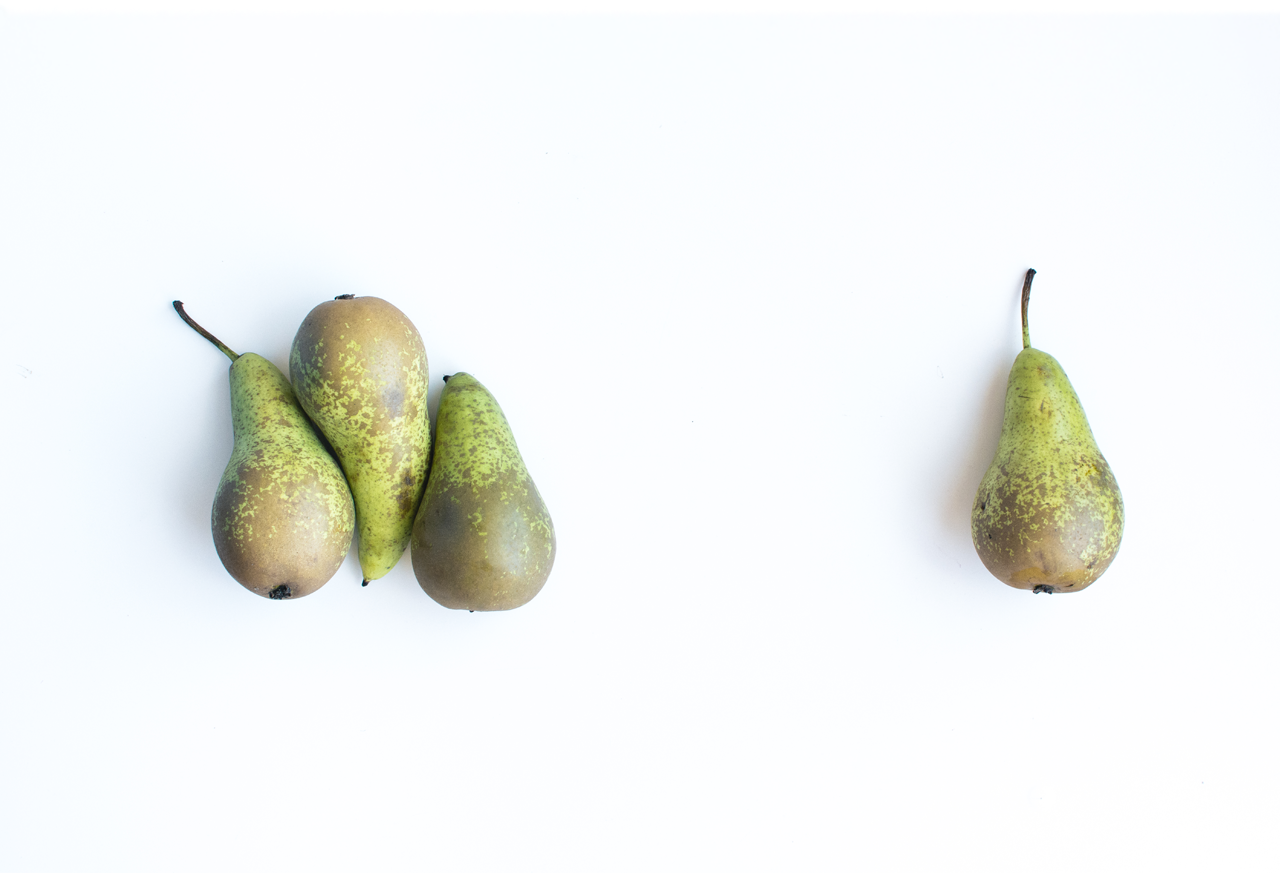
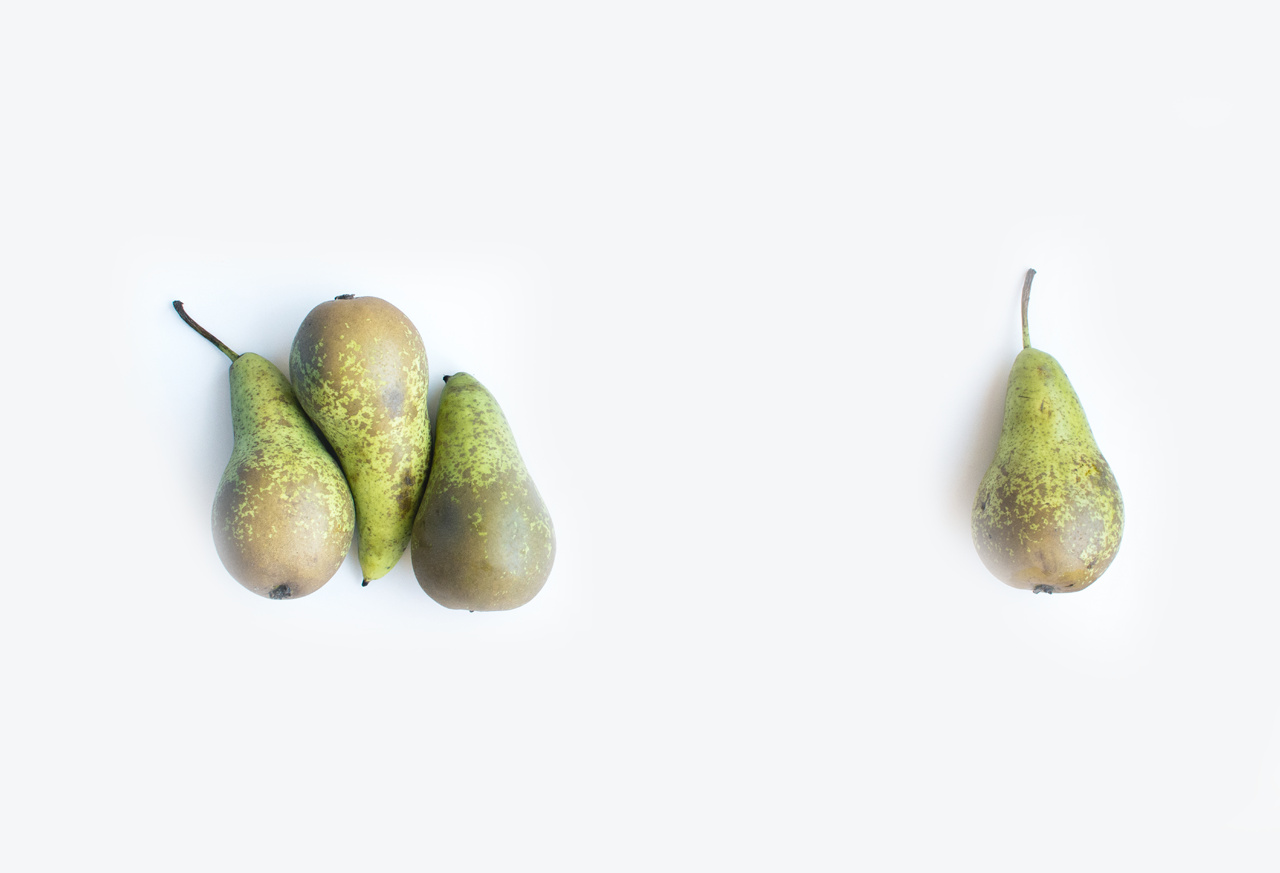
appropriate color for sections

diff --git a/BistroDriveWebApp/Scripts/jquery.fullPage.js b/BistroDriveWebApp/Scripts/jquery.fullPage.js
@@ -137,7 +137,7 @@
             controlArrowColor: '#fff',
             verticalCentered: true,
             resize: false,
-            sectionsColor : ['#f5f6f7','#fafbfd','#f5f6f7','#f8fcff'],
+            sectionsColor : ['#f5f6f7','#fbfcfe','#f5f6f7','#f8fcff'],
             paddingTop: 0,
             paddingBottom: 0,
             fixedElements: null,
